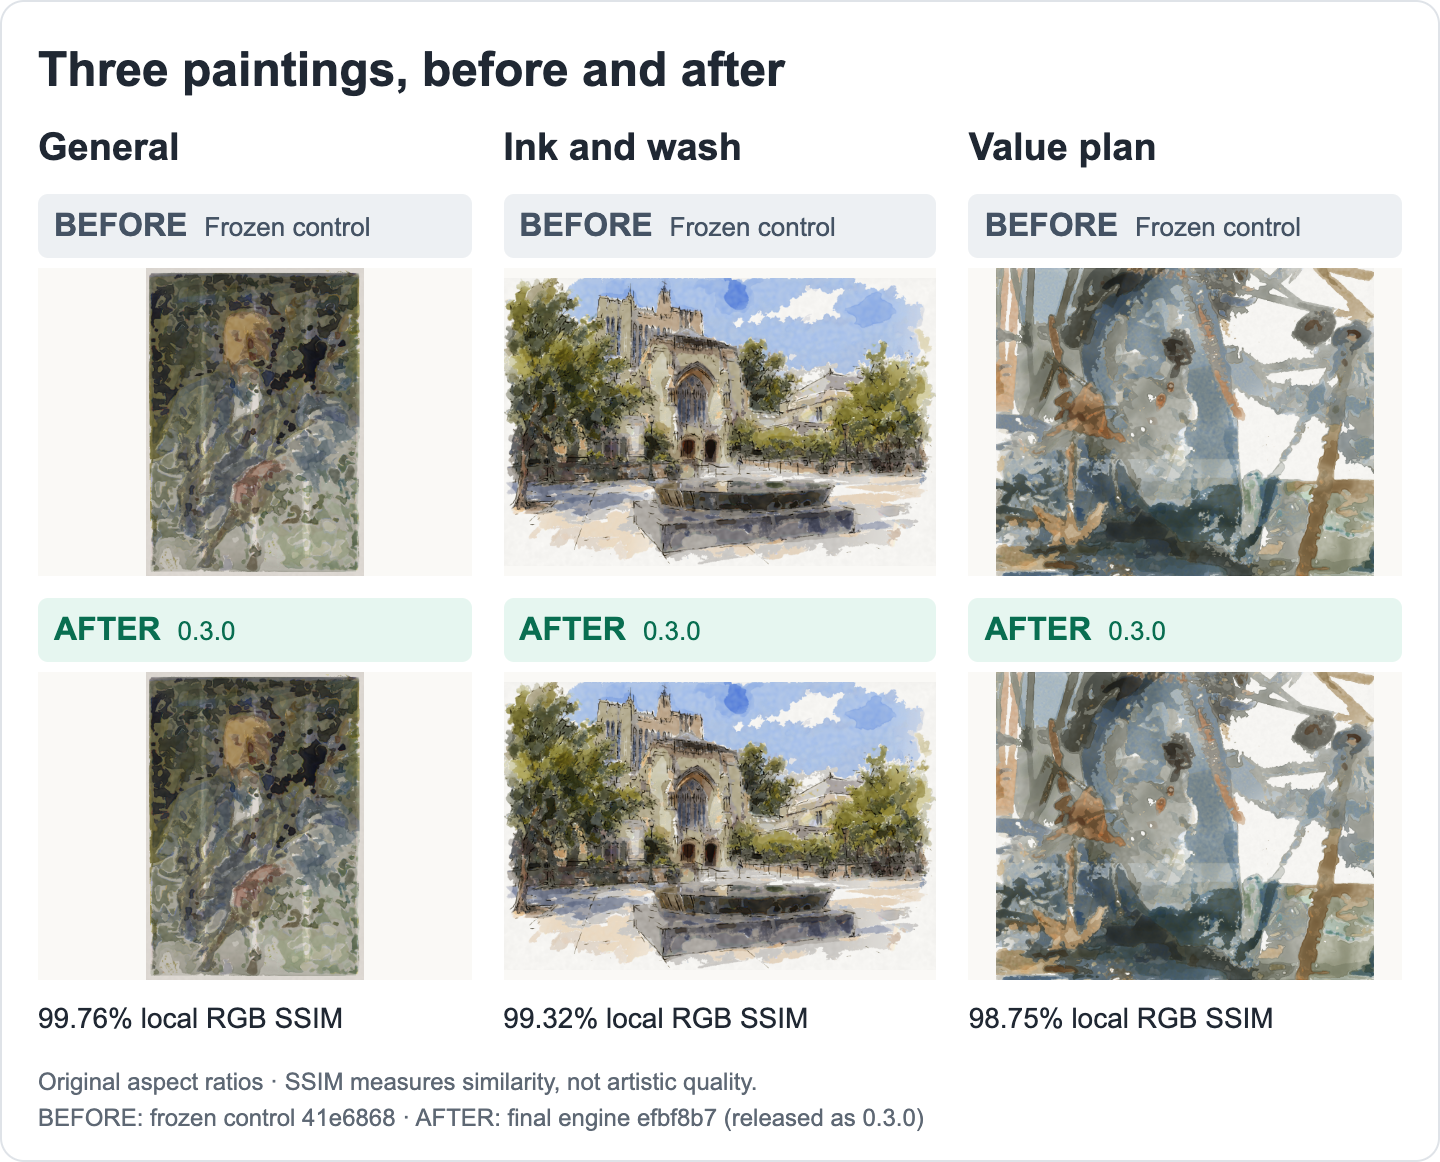
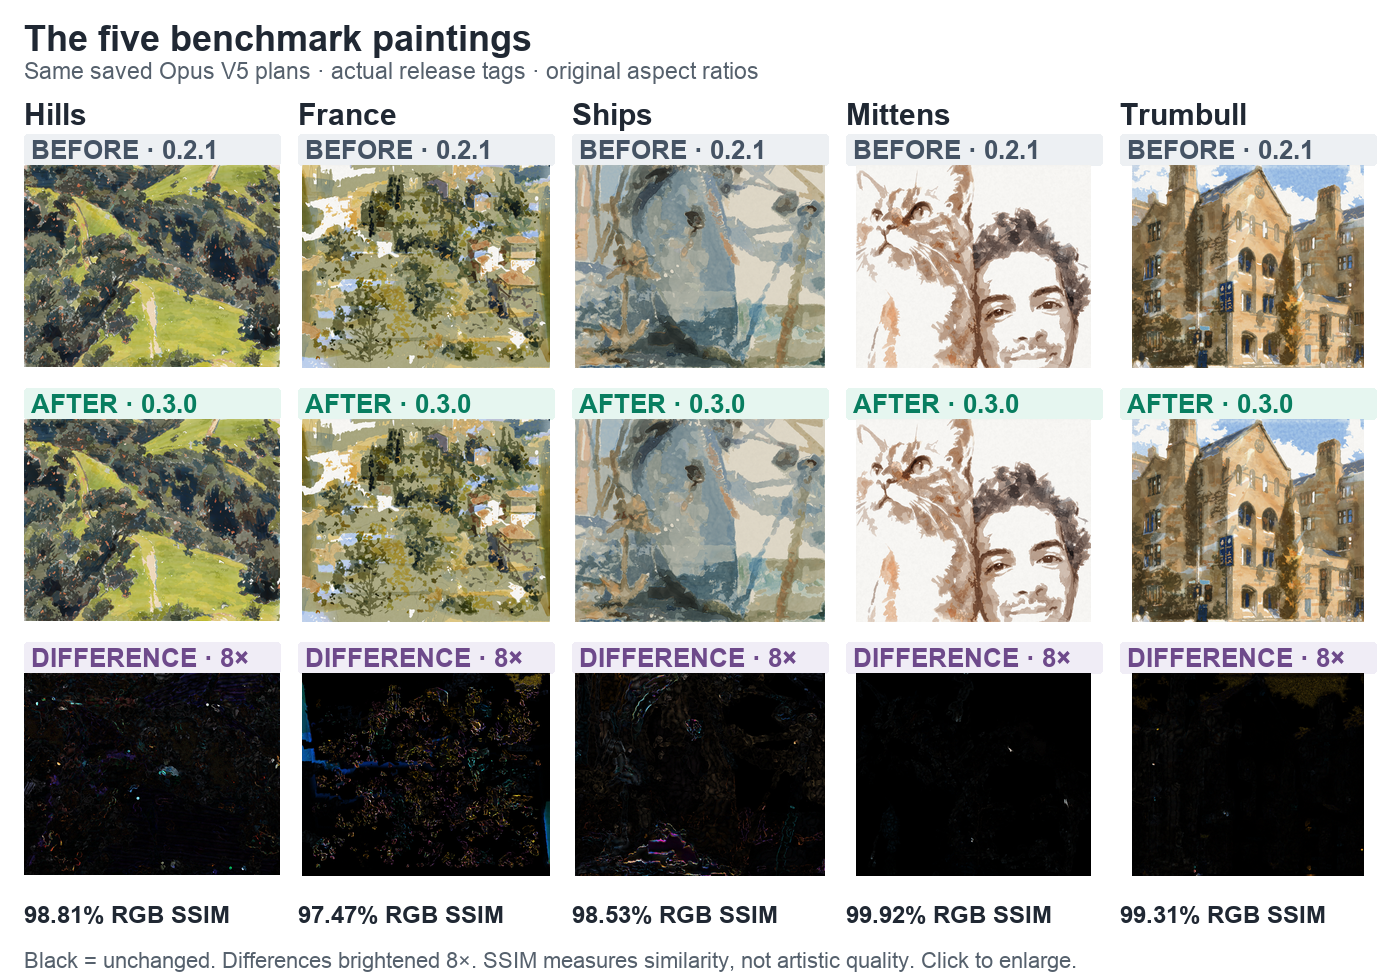
docs: show actual benchmark playback and matched release timings

diff --git a/CHANGELOG.md b/CHANGELOG.md
@@ -4,43 +4,40 @@ Releases use semver. Each release records its painter and simulator versions ([v
 
 ## 0.3.0 — 2026-11-07
 
-**Less GPU overhead, closely matched output.** 0.3.0 reduces GPU dispatches, paper readbacks and repeated preparation.
+**Five benchmark paintings, 30% less total time.** Replaying the saved Opus V5 plans took **14:47 instead of 21:13** on Apple M4 (**1.44× overall**). One run per painting/version; gains vary by target. France falls below the 98% image-similarity floor. The earlier 1.85× claim, which mixed cache states, is withdrawn.
 
-**Timing correction (2026-11-08):** the previous 1.85× headline mixed preprocessing cache states. For General, the control computed segmentation (12.7 s), while 0.3.0 reused it. That ratio is withdrawn; matched release-tag replays of the five benchmark plans are in progress.
+<a href="docs/img/release-0.3.0-painting.gif"><img src="docs/img/release-0.3.0-painting.gif" width="560" alt="Actual White Ships painting playback: 0.2.1 on left, 0.3.0 on right, synchronized at 24×."></a>
 
-<a href="docs/img/release-0.3.0-painting.gif"><img src="docs/img/release-0.3.0-painting.gif" width="560" alt="Real painting playback at 8× speed. BEFORE: frozen control on the left. AFTER: 0.3.0 on the right. Both recordings share the same clock; initial setup is trimmed."></a>
+**White Ships playback, 24×:** actual frames on one shared clock. Full recordings took **264.9 s before / 200.2 s after**; both omit the first 36.3 s. Segmentation is warm and recording overhead is included; the table uses separate unrecorded runs with cold segmentation. Each final PNG exactly matches its clean run.
 
-**A Tramp playback, 8× speed.** This performance fixture is outside the five-target model benchmark. Full recorded runs took **91.3 s before / 80.2 s after (1.14×)**, including capture overhead. Both omit the first 38 seconds. [Watch the MP4](https://github.com/sabj/unpainting/releases/download/v0.3.0/release-0.3.0-painting.mp4).
+| Target | Before · 0.2.1 | After · 0.3.0 | Speedup | RGB SSIM |
+|---|---:|---:|---:|---:|
+| Hills | 5:54 | 3:07 | 1.89× | 98.81% |
+| France | 2:10 | 1:51 | 1.18× | 97.47% |
+| Ships | 4:31 | 3:27 | 1.31× | 98.53% |
+| Mittens | 2:09 | 1:38 | 1.32× | 99.92% |
+| Trumbull | 6:29 | 4:44 | 1.37× | 99.31% |
 
-Single runs, fast mode, seed 0. The historical timings below have unmatched preprocessing cache states and are not a controlled speed comparison. “Before” is control `41e6868`. “After” is final engine `efbf8b7`, with the same painting code as release `70ceb7c`. These are M4 timings, not NVIDIA results.
+<a href="docs/img/release-0.3.0-before-after.png"><img src="docs/img/release-0.3.0-before-after.png" width="680" alt="All five benchmark paintings: BEFORE 0.2.1, AFTER 0.3.0, and differences brightened 8×. Black means unchanged. Each painting keeps its original aspect ratio."></a>
 
-### Before / after
-
-<a href="docs/img/release-0.3.0-before-after.png"><img src="docs/img/release-0.3.0-before-after.png" width="560" alt="Three painting pairs with labels baked into the image. Top: BEFORE, frozen control. Bottom: AFTER, 0.3.0. General: 99.76% SSIM; ink and wash: 99.32%; value plan: 98.75%. Click to enlarge."></a>
-
-**98.75–99.76% local RGB SSIM**, measured on original pixels across three workloads at one seed. This measures similarity, not artistic quality. Click the thumbnails to enlarge; inspect [8× differences and largest-change crops](https://github.com/sabj/unpainting/releases/download/v0.3.0/valueplan-1200-comparison.png) or download the [interactive comparison](https://github.com/sabj/unpainting/releases/download/v0.3.0/comparison.html).
-
-| Painting | Before · control | After · 0.3.0 |
-|---|---:|---:|
-| General | 82.39 s | 57.07 s |
-| Ink and wash | 179.90 s | 118.32 s |
-| Value plan | 463.40 s | 217.62 s |
+France remains a 0.3.1 investigation: disabling passage-level drying only raises its similarity to 97.79%. SSIM measures similarity between releases, not artistic quality.
 
 ### What changed
 
-- **Less waiting:** fewer GPU dispatches, smaller paper readbacks, reused stroke buffers.
-- **Less repeated work:** compact empty layers, faster ink filtering, cached preparation and queued image writes.
-- **Dry by passage:** fast value-plan runs keep shapes wet together by default. The timing above includes this change, which can alter pixels. `--washsession 0` restores per-shape drying.
+Fewer GPU dispatches, smaller readbacks, reused stroke buffers, faster ink filtering, cached preparation, queued image writes. Fast value-plan runs now dry by passage, a behavior change that affects pixels.
 
 ### Checked on real GPUs
 
-M4/Metal and NVIDIA L40S/Vulkan each pass **1,446 tests + 83 benchmark tests**, with zero failures and two reported non-GPU skips. Four native paint fixtures complete on L40S; RTX 4090 passes 11 targeted GPU regressions.
+M4/Metal and L40S/Vulkan each passed **1,446 tests + 83 benchmark tests**; two non-GPU skips. Paint Lab paints, dries and saves on Chrome Metal and CPU. **210 mushroom tests pass.** NVIDIA and browser speedups are unmeasured.
 
-[Paint Lab](https://sabj.github.io/unpainting/demos/lab/) paints, dries and saves on Chrome’s Metal WebGPU and CPU paths. All **210 mushroom tests** pass; Amanita, Morel and Coral render in Chromium. Browser speedups are not measured.
+<details>
+<summary>Measurement details</summary>
 
-Painter **V102** · simulator **103** · judges **J1**. Quality work continues in **0.3.1**.
+[Archived Opus V5 try-3 plans](https://github.com/sabj/unpainting/tree/v0.3.0/bench/runs/v5-self-study/opus/3), one per target, replayed with the frozen 0.2.1 argument builder: tags 1cc2c08 → 70ceb7c, seed 0, fast mode, 1200–1224 px. Full process time includes preparation and saving. Run cache off; segmentation cold on both; other preprocessing caches may remain. Ten Metal renders, zero target-read violations; same unused-option warnings. Overall ratio uses summed runtimes; SSIM compares original releases. The withdrawn 1.85× used three fixtures and mixed segmentation caches.
 
-[Historical timings (unmatched caches)](https://github.com/sabj/unpainting/releases/download/v0.3.0/performance-evidence.json) · [Image metrics and hashes](https://github.com/sabj/unpainting/releases/download/v0.3.0/visual-evidence.json) · [Validation](https://github.com/sabj/unpainting/releases/download/v0.3.0/validation.json) · [Logs](https://github.com/sabj/unpainting/releases/download/v0.3.0/validation-logs.zip) · [Full implementation notes](https://github.com/sabj/unpainting/blob/v0.3.0/CHANGELOG.md#030--2026-11-07)
+[GPU validation](https://github.com/sabj/unpainting/releases/download/v0.3.0/validation.json)
+
+</details>
 
 ## 0.2.1-rc.1
 
